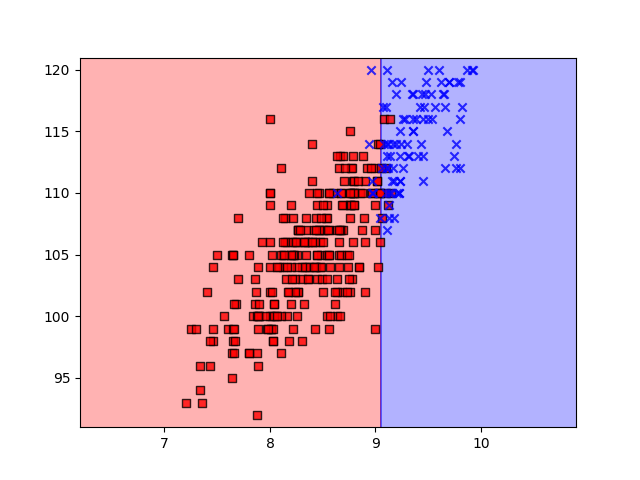
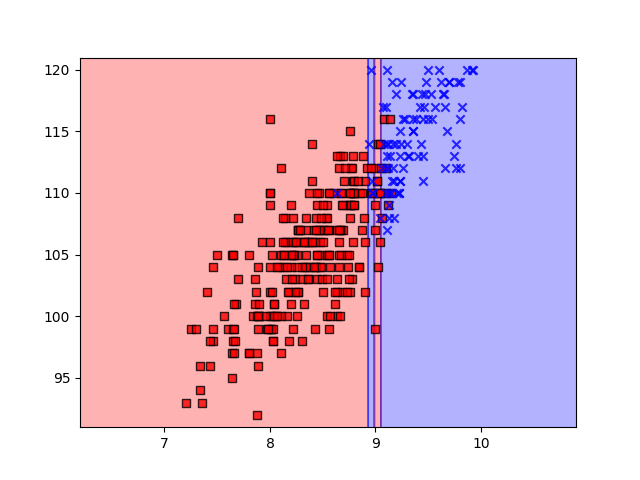
updated max depth on decision tree to 3

Changed region(s): [[0.5625, 0.125, 0.5938, 0.9062]]

diff --git a/decision_tree.py b/decision_tree.py
@@ -88,7 +88,7 @@ ty_train=np.array(ty_train)
 ty_test=[1 if CoA > 0.82 else 0 for CoA in y_test] #learned from internet
 ty_test=np.array(ty_test)
 
-tree_model = DecisionTreeClassifier(criterion='gini', max_depth=2, random_state=1)
+tree_model = DecisionTreeClassifier(criterion='gini', max_depth=3, random_state=1)
 tree_model.fit(X_train, ty_train)
 dt_pred = tree_model.predict(X_test)
 
@@ -104,7 +104,7 @@ graph.write_png("tree.png")
 
 X_combined_std = np.vstack((X_train[['CGPA', 'TOEFL']], X_test[['CGPA', 'TOEFL']]))
 y_combined = np.hstack((ty_train, ty_test))
-plot_decision_regions(X=X_combined_std, y=y_combined, classifier=DecisionTreeClassifier(criterion='gini', max_depth=2, random_state=1))
+plot_decision_regions(X=X_combined_std, y=y_combined, classifier=DecisionTreeClassifier(criterion='gini', max_depth=3, random_state=1))
 plt.savefig("decision_tree.png")
 plt.show()
 
